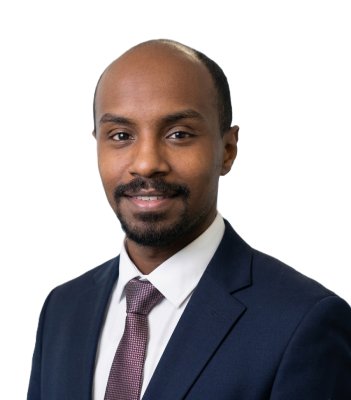
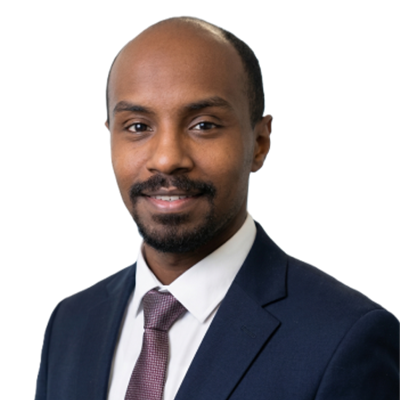
Fix profile image path and resize all images

diff --git a/js/content.js b/js/content.js
@@ -13,7 +13,7 @@ const personalInfo = {
     
     // 📝 EDIT: Add your profile image path
     // Place your image in the 'images' folder and update the path below
-    profileImage: "images/self/Profile-Photo.png",
+    profileImage: "images/Self/Profile-Photo.png",
     // Example: profileImage: "images/profile-photo.jpg",
     
     // 📝 EDIT: Add your CV/Resume file
